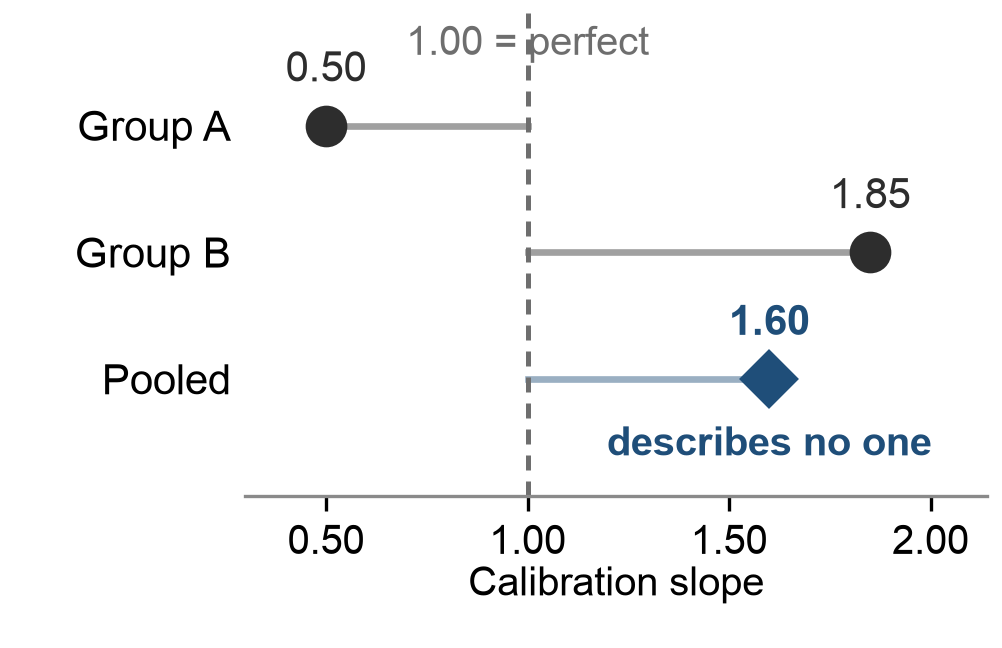
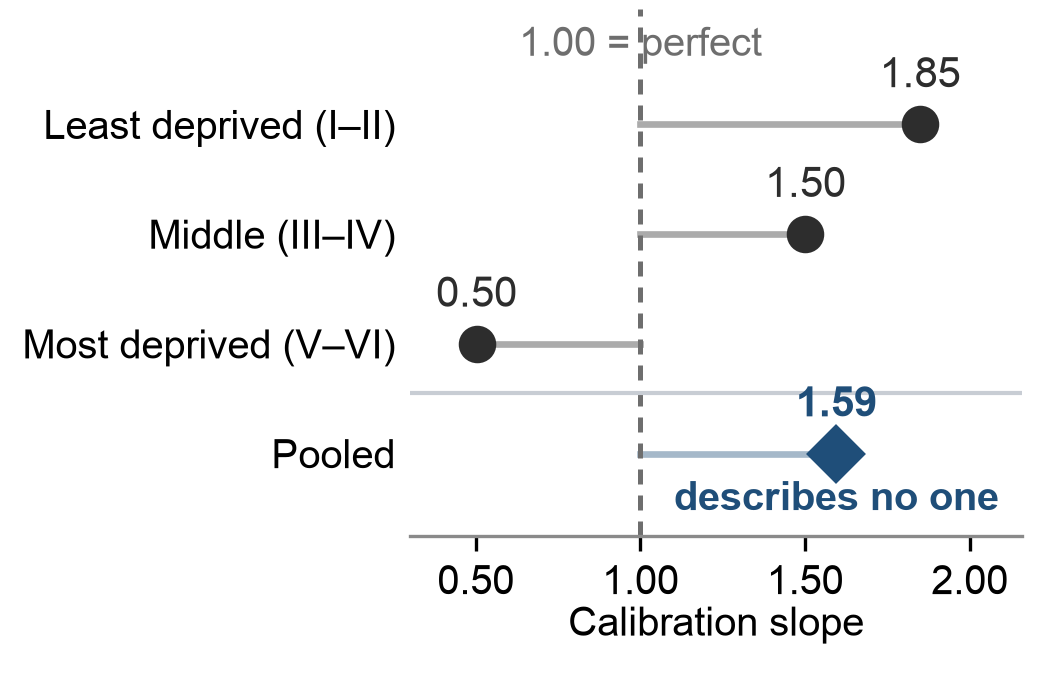
Correct two data-fidelity faults; add the evidence bridge and department context
fig_pooling: showed only two of three deprivation groups, so a reader averaging
the two on screen gets 1.18 rather than the reported pooled 1.60. All three
subgroups now plotted, read from data/calibration_slopes.csv.

fig_threshold: a shared 0-15% axis gave the jaundice movement 43% of the axis
and haematuria - the series that actually crosses the referral threshold - only
7%, inverting the visual emphasis. Now small multiples on per-panel scales.

check_sources.py gains check_symptom_overlap(): d'Elia studied rheumatoid
arthritis, not cancer, so the bridge to Barclay's presenting symptoms is now
computed (fatigue and weight loss appear in both) rather than asserted.

figures.py gains check_panels_clean(), which also asserts the dashed threshold
segment crosses no text - the fault class that a text-vs-text check cannot see.

diff --git a/code/figures.py b/code/figures.py
@@ -125,89 +125,150 @@ def forest():
 
 
 def threshold():
-    """Price 2016 — PPV with coded records only vs codes plus recovered text."""
-    raw = read_rows("price2016_ppv.csv")
-    fig, ax = plt.subplots(figsize=(6.10, 3.24))
-    ys = list(range(len(raw) - 1, -1, -1))
+    """Price 2016 — PPV with coded records only vs codes plus recovered text.
 
-    for r, yv in zip(raw, ys):
+    Drawn as small multiples with a per-panel scale, deliberately. On a shared
+    0-15% axis the jaundice movement (12.8 to 6.3) occupies 43% of the axis
+    while haematuria (4.0 to 2.9) occupies 7% - so the visually dominant series
+    is the secondary finding and the one that actually crosses the referral
+    threshold is nearly invisible. Per-panel scales give each movement the same
+    visual weight; the axis labels carry the magnitude.
+    """
+    raw = read_rows("price2016_ppv.csv")
+    # per-panel x-range and ticks, chosen so each movement fills its panel
+    VIEW = {"Haematuria": ((2.42, 4.58), [3, 4], "in"),
+            "Jaundice": ((4.15, 15.1), [6, 9, 12], "below"),
+            "Abdominal pain": ((0.1775, 0.2625), [0.20, 0.24], "above")}
+    NOTE = {"in": "3% referral threshold (dashed)",
+            "below": "3% threshold lies below this range",
+            "above": "3% threshold lies above this range"}
+    VERDICT = {"in": "crosses the threshold", "below": "halves, but stays above",
+               "above": "does not move"}
+
+    fig, axes = plt.subplots(1, 3, figsize=(8.6, 2.72))
+    Y, L0, L1 = 0.50, 0.30, 0.70
+    for ax, r in zip(axes, raw):
         a = float(r["ppv_coded_only"])
         b = float(r["ppv_codes_plus_text"])
-        crosses = r["crosses_3pc"] == "yes"
-        colour = NAVY if crosses else GREY
-        ax.annotate("", xy=(b, yv), xytext=(a, yv),
-                    arrowprops=dict(arrowstyle="-|>", color=colour, lw=2.4,
-                                    shrinkA=4, shrinkB=0, mutation_scale=15))
-        ax.plot([a], [yv], "o", ms=8, color=colour, mfc="white", mew=2.2, zorder=3)
-        ax.plot([b], [yv], "o", ms=8, color=colour, zorder=3)
-        if a - b > 0.5:
-            ax.text(a + 0.45, yv, f"{a}%", color=colour, ha="left", va="center")
-            ax.text(b - 0.45, yv, f"{b}%", color=colour, ha="right", va="center",
-                    fontweight="bold" if crosses else "normal")
-        else:
-            # markers would collide: one combined label, offset past both
-            ax.text(max(a, b) + 0.95, yv, f"{a}% \u2192 {b}%   unchanged",
-                    color=colour, ha="left", va="center")
+        xr, ticks, thr = VIEW[r["symptom"]]
+        colour = NAVY if r["crosses_3pc"] == "yes" else GREY
+        ax.set_xlim(*xr)
+        ax.set_ylim(0, 1)
+        if thr == "in":
+            # a short vertical segment, not axvline: a full-height line runs
+            # through the value labels and the verdict text
+            ax.vlines(3.0, L0, L1, color=NAVY, ls=(0, (4, 3)), lw=1.7, zorder=1)
+        ax.annotate("", xy=(b, Y), xytext=(a, Y),
+                    arrowprops=dict(arrowstyle="-|>", color=colour, lw=2.6,
+                                    shrinkA=5, shrinkB=1, mutation_scale=17))
+        ax.plot([a], [Y], "o", ms=10, color=colour, mfc="white", mew=2.4, zorder=3)
+        ax.plot([b], [Y], "o", ms=10, color=colour, zorder=3)
+        span = xr[1] - xr[0]
+        ax.text(b - span * 0.055, Y, f"{b}%", color=colour, ha="right", va="center",
+                fontsize=12, fontweight="bold")
+        ax.text(a + span * 0.055, Y, f"{a}%", color=colour, ha="left", va="center", fontsize=12)
+        ax.set_title(f"{r['symptom']}\n{r['cancer'].lower()} cancer", fontsize=12.5,
+                     color="#2D2D2D", pad=8, linespacing=1.35)
+        ax.set_yticks([])
+        ax.set_xticks(ticks)
+        ax.set_xticklabels([f"{t:g}" for t in ticks], fontsize=11)
+        ax.tick_params(axis="x", length=3, colors="#6A6A6A")
+        ax.text(0.5, 0.955, NOTE[thr], transform=ax.transAxes, color=NAVY, fontsize=10.5,
+                ha="center", va="top", fontweight="bold" if thr == "in" else "normal")
+        ax.text(0.5, 0.085, VERDICT[thr], transform=ax.transAxes, color=colour, fontsize=11.5,
+                ha="center", va="center", fontweight="bold" if thr == "in" else "normal")
 
-    ax.axvline(3, color=NAVY, ls=(0, (4, 3)), lw=1.6, zorder=1)
-    ax.text(3.25, max(ys) + 0.62, "3% referral threshold", color=NAVY,
-            ha="left", va="center", fontweight="bold")
-    ax.set_xlim(-1.4, 16.4)
-    ax.set_ylim(min(ys) - 0.52, max(ys) + 0.86)
-    ax.set_yticks(ys)
-    ax.set_yticklabels([f"{r['symptom']}\n{r['cancer'].lower()} cancer" for r in raw])
-    ax.tick_params(axis="y", length=0)
-    ax.spines["left"].set_visible(False)
-    ax.set_xticks([0, 3, 5, 10, 15])
-    ax.set_xlabel("Positive predictive value for cancer (%)", labelpad=2)
-
-    crosser = next(i for i, r in enumerate(raw) if r["crosses_3pc"] == "yes")
-    ax.annotate("crosses the line", xy=(2.9, ys[crosser] - 0.10),
-                xytext=(5.6, ys[crosser] - 0.48), color=NAVY, fontweight="bold",
-                ha="left", va="center",
-                arrowprops=dict(arrowstyle="-", color=NAVY, lw=1.0, shrinkA=4,
-                                shrinkB=4, connectionstyle="arc3,rad=-0.18"))
-    ax.text(-1.30, min(ys) - 0.40,
-            "\u25cb coded records only          \u25cf codes plus recovered text",
-            fontsize=11, color="#4A4A4A", ha="left", va="center")
-
-    fig.subplots_adjust(left=0.285, right=0.985, top=0.99, bottom=0.185)
-    check_no_overlap(fig, ax)
+    fig.text(0.5, 0.075, "Positive predictive value for cancer (%) \u2014 each panel on its own scale",
+             ha="center", fontsize=11.5, color="#4A4A4A")
+    fig.text(0.5, 0.012,
+             "open circle: coded records only          filled circle: codes plus recovered free text",
+             ha="center", fontsize=10.5, color="#6A6A6A")
+    fig.subplots_adjust(left=0.055, right=0.978, top=0.775, bottom=0.235, wspace=0.20)
+    check_panels_clean(fig, axes, dashed_at=(axes[0], 3.0, L0, L1))
     fig.savefig(OUT / "fig_threshold.png", facecolor="white")
     plt.close(fig)
 
 
 def pooling():
-    """Why a pooled calibration slope can describe neither subgroup."""
-    slopes = [("Group A", 0.50, "#2D2D2D", "o"),
-              ("Group B", 1.85, "#2D2D2D", "o"),
-              ("Pooled", 1.60, NAVY, "D")]
-    fig, ax = plt.subplots(figsize=(3.34, 2.16))
-    ys = [2, 1, 0]
-    for (lab, xv, colour, marker), yv in zip(slopes, ys):
-        ax.plot([1.0, xv], [yv, yv], color=colour, lw=1.6, alpha=0.45, zorder=1)
-        ax.plot([xv], [yv], marker, ms=9, color=colour, zorder=3)
-        ax.text(xv, yv + 0.28, f"{xv:.2f}", fontsize=10, color=colour,
-                ha="center", va="bottom",
-                fontweight="bold" if marker == "D" else "normal")
+    """Subgroup calibration slopes and the pooled value that describes none of them.
+
+    Values are read from data/calibration_slopes.csv, transcribed from the
+    results table of Lexiyao/model-evaluation-from-scratch. All THREE subgroups
+    are shown: with only the two extremes on screen a reader who averages them
+    gets 1.18, not the reported pooled 1.60, and the figure looks wrong.
+    """
+    rows_ = read_rows("calibration_slopes.csv")
+    subs = [r for r in rows_ if r["is_pooled"] == "no"]
+    pooled = next(r for r in rows_ if r["is_pooled"] == "yes")
+    ordered = subs + [pooled]
+
+    fig, ax = plt.subplots(figsize=(3.46, 2.28))
+    ys = list(range(len(ordered) - 1, -1, -1))
+    for r, yv in zip(ordered, ys):
+        xv = float(r["calibration_slope"])
+        is_pooled = r["is_pooled"] == "yes"
+        colour = NAVY if is_pooled else "#2D2D2D"
+        ax.plot([1.0, xv], [yv, yv], color=colour, lw=1.6, alpha=0.40, zorder=1)
+        ax.plot([xv], [yv], "D" if is_pooled else "o", ms=9 if is_pooled else 8,
+                color=colour, zorder=3)
+        ax.text(xv, yv + 0.26, f"{xv:.2f}", fontsize=10, color=colour, ha="center",
+                va="bottom", fontweight="bold" if is_pooled else "normal")
     ax.axvline(1.0, color=GREY, ls=(0, (3, 2.2)), lw=1.2, zorder=1)
-    ax.text(1.0, 2.64, "1.00 = perfect", fontsize=9.5, color=GREY,
+    ax.text(1.0, max(ys) + 0.72, "1.00 = perfect", fontsize=9.5, color=GREY,
             ha="center", va="center")
-    ax.set_xlim(0.30, 2.14)
-    ax.set_ylim(-0.92, 2.94)
+    ax.axhline(0.55, color=RULE, lw=1.0, zorder=1)   # separates pooled from subgroups
+    ax.set_xlim(0.30, 2.16)
+    ax.set_ylim(-0.75, max(ys) + 1.05)
     ax.set_yticks(ys)
-    ax.set_yticklabels([s[0] for s in slopes], fontsize=10)
+    ax.set_yticklabels([r["group"] for r in ordered], fontsize=9.5)
     ax.tick_params(axis="y", length=0)
     ax.spines["left"].set_visible(False)
     ax.set_xticks([0.5, 1.0, 1.5, 2.0])
     ax.set_xticklabels(["0.50", "1.00", "1.50", "2.00"], fontsize=9.5)
     ax.set_xlabel("Calibration slope", fontsize=9.5, labelpad=1)
-    ax.text(1.60, -0.52, "describes no one", fontsize=9.5, color=NAVY,
-            fontweight="bold", ha="center", va="center")
-    fig.subplots_adjust(left=0.245, right=0.985, top=0.99, bottom=0.235)
+    ax.text(float(pooled["calibration_slope"]), -0.42, "describes no one", fontsize=9.5,
+            color=NAVY, fontweight="bold", ha="center", va="center")
+    fig.subplots_adjust(left=0.395, right=0.985, top=0.985, bottom=0.215)
     check_no_overlap(fig, ax)
     fig.savefig(OUT / "fig_pooling.png", facecolor="white")
     plt.close(fig)
+    return [float(r["calibration_slope"]) for r in subs], float(pooled["calibration_slope"])
+
+
+def check_panels_clean(fig, axes, dashed_at=None):
+    """Multi-panel version of check_no_overlap, plus a dashed-line check.
+
+    dashed_at=(ax, x, y0, y1) asserts that the short dashed segment drawn at
+    data-x on that axis does not pass through any text. The plain text-vs-text
+    check cannot catch this: a Line2D is not a Text, so a line running straight
+    through four labels passes silently.
+    """
+    fig.canvas.draw()
+    r = fig.canvas.get_renderer()
+    items = []
+    for ax in axes:
+        for t in list(ax.texts) + [ax.title] + ax.get_xticklabels():
+            if t.get_text().strip():
+                items.append((ax, t, t.get_window_extent(r)))
+    problems = []
+    for i, (_, a, ba) in enumerate(items):
+        for _, b, bb in items[i + 1:]:
+            if ba.overlaps(bb):
+                problems.append(f"{a.get_text()[:22]!r} overlaps {b.get_text()[:22]!r}")
+    fb = fig.bbox
+    for _, t, bb in items:
+        if bb.x0 < fb.x0 or bb.x1 > fb.x1 or bb.y0 < fb.y0 or bb.y1 > fb.y1:
+            problems.append(f"{t.get_text()[:22]!r} runs outside the canvas")
+    if dashed_at:
+        ax, xdata, y0, y1 = dashed_at
+        xpix = ax.transData.transform((xdata, 0))[0]
+        ylo = ax.transAxes.transform((0, y0))[1]
+        yhi = ax.transAxes.transform((0, y1))[1]
+        for a_, t, bb in items:
+            if a_ is ax and bb.x0 <= xpix <= bb.x1 and bb.y1 >= ylo and bb.y0 <= yhi:
+                problems.append(f"dashed line crosses {t.get_text()[:22]!r}")
+    if problems:
+        raise AssertionError("figure has layout faults:\n  " + "\n  ".join(problems))
 
 
 def check_no_overlap(fig, ax):
@@ -243,8 +304,8 @@ if __name__ == "__main__":
     house_style()
     n_above, n_total = forest()
     threshold()
-    pooling()
+    slopes, pooled = pooling()
     print(f"fig_forest.png      {n_above} of {n_total} associations above 1")
-    print("fig_threshold.png   written")
-    print("fig_pooling.png     written")
+    print("fig_threshold.png   3 panels, each on its own scale")
+    print(f"fig_pooling.png     subgroups {slopes} pool to {pooled}")
     print(f"all figures in {OUT}")

diff --git a/verification/check_sources.py b/verification/check_sources.py
@@ -112,6 +112,40 @@ def check_barclay_bands():
     print("   total is not the quantity of interest; the annotation reports a single site.")
 
 
+BARCLAY_15 = ["abdominal pain", "abdominal bloating", "rectal bleed", "change in bowel habit",
+              "dyspepsia", "dysphagia", "dyspnoea", "haemoptysis", "haematuria", "fatigue",
+              "night sweats", "weight loss", "jaundice", "breast lump", "post-menopausal bleed"]
+
+
+def check_symptom_overlap():
+    """Which symptoms appear in BOTH evidence sources.
+
+    d'Elia studied prodromal symptoms of rheumatoid arthritis, not cancer. The
+    argument therefore rests on an explicit bridge: symptoms that appear both in
+    d'Elia's coding-disparity results and in Barclay's fifteen cancer presenting
+    symptoms. This computes that intersection rather than asserting it.
+    """
+    print("\nF. Bridge between the two evidence sources")
+    rows = list(csv.DictReader(open(DATA / "delia2025_table3.csv", newline="")))
+    delia = {r["symptom"].lower().replace("unintended ", "").strip() for r in rows}
+    overlap = sorted(delia & set(BARCLAY_15))
+    print(f"   d'Elia distinct symptoms: {len(delia)}  |  Barclay presenting symptoms: {len(BARCLAY_15)}")
+    print(f"   in BOTH: {overlap}")
+    assert overlap, "the argument needs at least one symptom in both sources"
+    for r in rows:
+        key = r["symptom"].lower().replace("unintended ", "").strip()
+        if key in overlap:
+            print(f"      {r['symptom']:22s} {r['group']:22s} OR {r['odds_ratio']} "
+                  f"({r['ci_low_99_76']}\u2013{r['ci_high_99_76']})")
+    bands = list(csv.DictReader(open(DATA / "barclay2024_measured_bands.csv", newline="")))
+    fatigue_max = max(float(r["band_thickness_pc_at_oldest_age"])
+                      for r in bands if r["panel"] == "Fatigue")
+    print(f"   Fatigue is in both lists, and its largest single-site risk is {fatigue_max:.2f}% "
+          f"\u2014 {'below' if fatigue_max < NICE_THRESHOLD else 'above'} the {NICE_THRESHOLD}% threshold.")
+    print("   So the symptoms whose coding differs by group are also the ones that sit")
+    print("   furthest from the threshold at which referral is decided.")
+
+
 def check_subgroup_power():
     print("\nE. Feasibility floor for estimating a subgroup calibration slope")
     print("   Rule of thumb: ~100 events minimum per subgroup, 200 preferred.")
@@ -127,5 +161,6 @@ if __name__ == "__main__":
     check_abstract()
     check_thresholds()
     check_barclay_bands()
+    check_symptom_overlap()
     check_subgroup_power()
     print("\nAll assertions passed.")

diff --git a/README.md b/README.md
@@ -21,6 +21,12 @@ The presentation makes three empirical claims. Each is checkable here:
 | Recording completeness alone moves a predictive value across the 3% referral threshold | Price et al. (2016), CPRD, 20,958 symptom records | [`figures/fig_threshold.png`](figures/fig_threshold.png) |
 | The symptoms nearest that threshold are the non-specific ones | Barclay et al. (2024), CPRD, 1,622,419 patients, Figure 2 | [`figures/fig_barclay_panels.png`](figures/fig_barclay_panels.png) |
 
+The two symptoms that appear in **both** d'Elia's coding-disparity list and
+Barclay's fifteen cancer presenting symptoms are **fatigue** and **weight loss** —
+the non-specific ones, which are also the ones whose single-site cancer risk
+never crosses 3%. That overlap is what closes the argument, and it is computed,
+not asserted: the intersection is derived in `verification/check_sources.py`.
+
 ---
 
 ## Reproducing
@@ -38,11 +44,23 @@ python verification/check_sources.py
 python code/barclay_panels.py /path/to/bmjonc-2024-000500.pdf
 ```
 
-`code/figures.py` fails with an `AssertionError` if any two text labels in a
-figure collide, so a figure that silently overlaps its own annotations cannot be
-committed. That check is geometric only — it cannot tell whether a leader line
-points at the correct row — so annotations are anchored to looked-up
-coordinates rather than eyeballed ones.
+`code/figures.py` fails with an `AssertionError` if any two text labels collide,
+if a label runs off the canvas, or if the dashed threshold segment passes through
+any text. A figure that silently overlaps its own annotations cannot be
+committed.
+
+Those checks exist because earlier drafts of these figures failed in ways a
+text-vs-text test could not see:
+
+| Fault | Why the check missed it | Fix |
+|---|---|---|
+| A dashed threshold line ran through four labels | a `Line2D` is not a `Text` | explicit line-vs-text geometry (`check_panels_clean`) |
+| A leader line terminated on the wrong row | geometry was consistent, just wrong | anchor annotations to looked-up row coordinates |
+| An arrow pointed right while its label read "never crosses" | no check on semantic direction | the schematic was replaced by the source figure |
+
+The last one is the reason `fig_barclay_panels.png` reuses the published figure
+rather than redrawing it: where a source figure exists and its licence permits
+reuse, reusing it removes a whole class of error.
 
 ---
 
@@ -91,16 +109,32 @@ gridlines and black baseline, fits pixel row against axis value, and raises an
 
 ---
 
+## How this sits against existing work in the department
+
+The Nuffield Department of Primary Care Health Sciences has already asked a
+closely related question of a different predictor class:
+
+- **Virdee, Oke, Bankhead, et al. (2025)**, *JMIR Cancer* 11:e70275 — reviewed 7 cancer risk models built on blood-test trends. Across 14 external validations, **one** assessed calibration; all but one study scored high risk of bias in the analysis domain.
+- **Nicholson, Bankhead, et al. (2019)**, *BMC Medicine* 17:222 — characterised weight recording in 5 million adults, and found the **white** ethnic group *less* likely to have weight recorded.
+
+Two consequences for this proposal:
+
+1. The Year 1 scoping review is not a duplicate. Theirs covers blood-test trends, where the predictor is ordered and returned as a number; this one covers symptom codes, where the predictor exists only if someone entered it. A Europe PMC search for reviews combining symptom-recording completeness with prediction-model calibration in primary care returns nothing.
+2. The direction of any disparity is an open question, not an assumption. Weight recording and symptom coding run in *opposite* directions by ethnicity, plausibly because one is driven by chronic-disease review and the other by what is raised in a consultation. The fairness argument does not need a direction: if recording differs between groups, model trustworthiness differs between groups.
+
+---
+
 ## Repository contents
 
 ```
-code/figures.py             three figures, plotted from data/*.csv
-code/barclay_panels.py      panel extraction + per-site band measurement
-data/delia2025_table3.csv   15 associations, transcribed from Table 3
-data/price2016_ppv.csv      predictive values before/after text recovery
+code/figures.py                       three figures, plotted from data/*.csv
+code/barclay_panels.py                panel extraction + per-site band measurement
+data/delia2025_table3.csv             15 associations, transcribed from Table 3
+data/price2016_ppv.csv                predictive values before/after text recovery
+data/calibration_slopes.csv           subgroup and pooled calibration slopes
 data/barclay2024_measured_bands.csv   per-site bands, written by barclay_panels.py
-verification/check_sources.py         consistency, threshold and power checks
-figures/                    generated output
+verification/check_sources.py         consistency, threshold, bridge and power checks
+figures/                              generated output
 ```
 
 ---
@@ -109,6 +143,8 @@ figures/                    generated output
 
 - **d'Elia A, Baranskaya A, Haroon S, et al.** Prodromal symptoms of rheumatoid arthritis in a primary care database: variation by ethnicity and socioeconomic status. *Rheumatology* 2025;64(3):1029–1035. [doi:10.1093/rheumatology/keae157](https://doi.org/10.1093/rheumatology/keae157) — CC BY 4.0
 - **Price SJ, Stapley SA, Shephard E, et al.** Is omission of free text records a possible source of data loss and bias in CPRD studies? *BMJ Open* 2016;6:e011664. [doi:10.1136/bmjopen-2016-011664](https://doi.org/10.1136/bmjopen-2016-011664)
+- **Virdee PS, Collins KK, Smith CF, et al.** Clinical prediction models incorporating blood test trend for cancer detection: systematic review, meta-analysis, and critical appraisal. *JMIR Cancer* 2025;11:e70275. [doi:10.2196/70275](https://doi.org/10.2196/70275)
+- **Nicholson BD, Aveyard P, Bankhead C, et al.** Determinants and extent of weight recording in UK primary care. *BMC Medicine* 2019;17:222. [doi:10.1186/s12916-019-1446-y](https://doi.org/10.1186/s12916-019-1446-y)
 - **Barclay ME, Renzi C, Harrison H, et al.** Cancer incidence and competing mortality risk following 15 presenting symptoms in primary care. *BMJ Oncology* 2024;3:e000500. [doi:10.1136/bmjonc-2024-000500](https://doi.org/10.1136/bmjonc-2024-000500) — CC BY 4.0
 - **Luijken K, Groenwold RHH, Van Calster B, et al.** Impact of predictor measurement heterogeneity across settings on the performance of prediction models. *Statistics in Medicine* 2019;38(18):3444–3459. [doi:10.1002/sim.8183](https://doi.org/10.1002/sim.8183)
 - **Van Calster B, McLernon DJ, van Smeden M, et al.** Calibration: the Achilles heel of predictive analytics. *BMC Medicine* 2019;17:230. [doi:10.1186/s12916-019-1466-7](https://doi.org/10.1186/s12916-019-1466-7)
